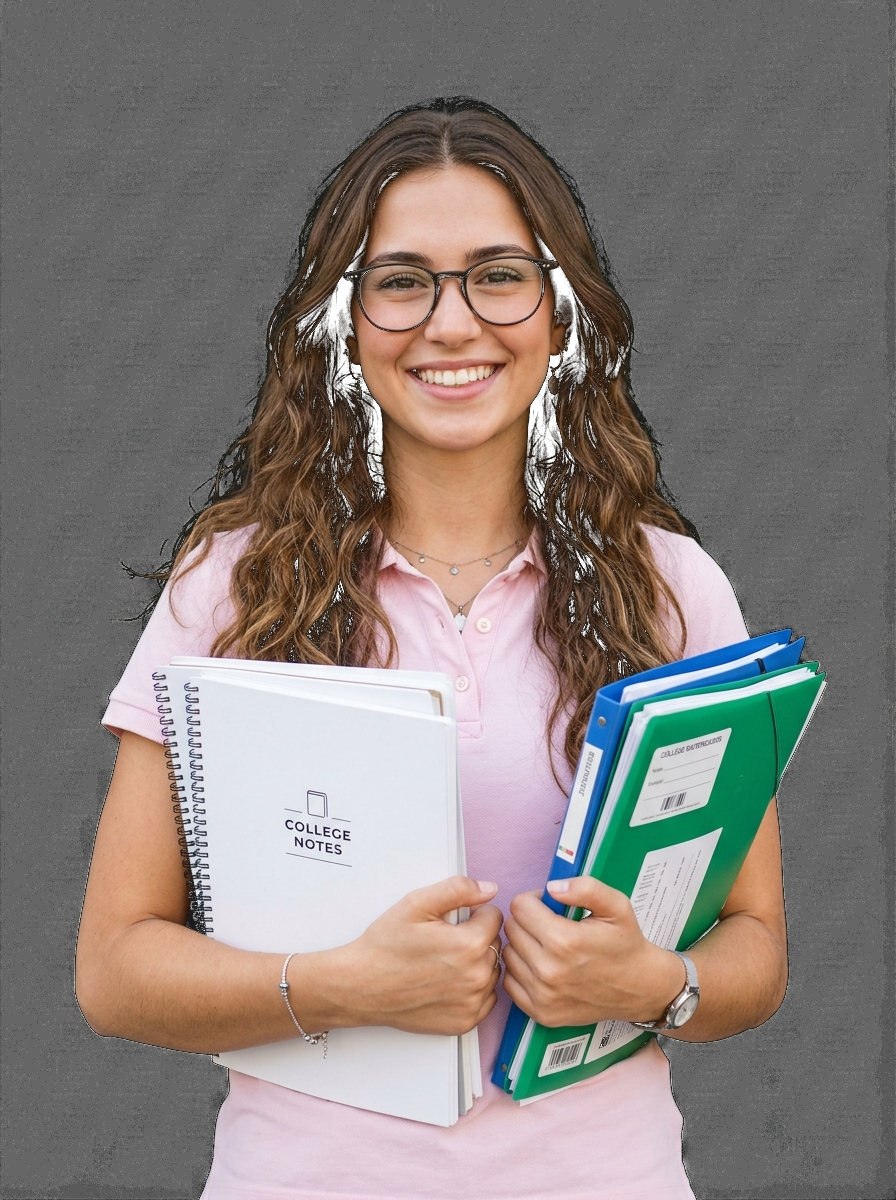
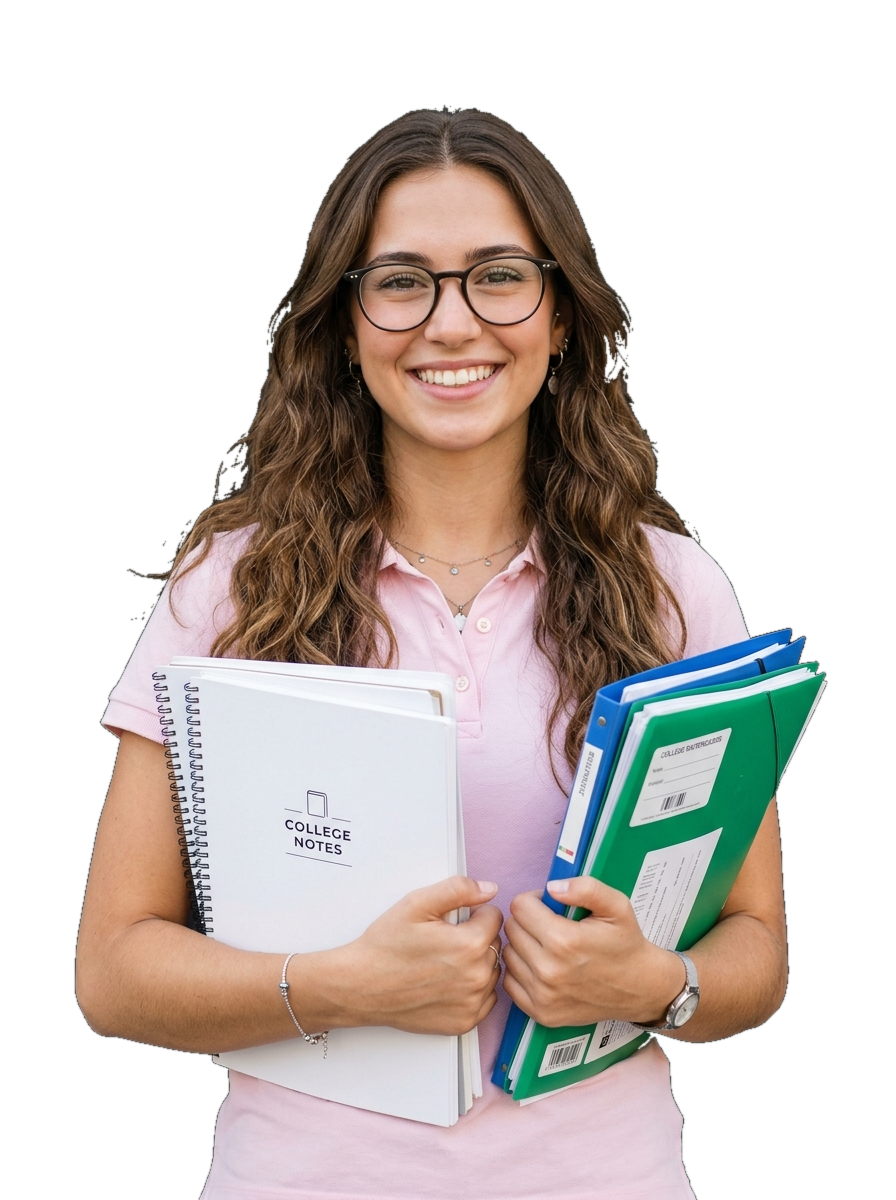
Make hero section full viewport height with seamless dark top navbar and clean transparent student cutout

diff --git a/bioedge-frontend/src/index.css b/bioedge-frontend/src/index.css
@@ -1635,7 +1635,11 @@ input, select, textarea {
   color: #FFFFFF;
   position: relative;
   overflow: hidden;
-  padding: 3.5rem 0 3rem;
+  min-height: calc(100vh - 72px);
+  display: flex;
+  flex-direction: column;
+  justify-content: flex-end;
+  padding: 2.5rem 0 0 0;
   border-bottom: 1px solid rgba(255, 255, 255, 0.08);
 }
 
@@ -1711,10 +1715,15 @@ input, select, textarea {
 
 .ref-hero-container {
   max-width: 1280px;
+  width: 100%;
   margin: 0 auto;
   padding: 0 1.5rem;
   position: relative;
   z-index: 10;
+  display: flex;
+  flex-direction: column;
+  justify-content: flex-end;
+  flex: 1;
 }
 
 .ref-hero-grid {
@@ -1722,6 +1731,7 @@ input, select, textarea {
   grid-template-columns: 280px 1.25fr 290px;
   gap: 2rem;
   align-items: flex-end;
+  width: 100%;
 }
 
 /* Left Column */
@@ -1729,7 +1739,7 @@ input, select, textarea {
   display: flex;
   flex-direction: column;
   gap: 2rem;
-  padding-bottom: 1.5rem;
+  padding-bottom: 0;
 }
 
 .ref-hero-mini-badge {
@@ -1822,6 +1832,7 @@ input, select, textarea {
   display: flex;
   flex-direction: column;
   gap: 0.85rem;
+  margin-bottom: 0;
 }
 
 .teacher-card-top-header {
@@ -1913,9 +1924,9 @@ input, select, textarea {
   max-width: 440px;
   margin: 0 auto;
   z-index: 5;
-  background: transparent;
-  border: none;
-  box-shadow: none;
+  background: transparent !important;
+  border: none !important;
+  box-shadow: none !important;
 }
 
 .center-student-img {
@@ -1924,11 +1935,11 @@ input, select, textarea {
   max-height: 520px;
   object-fit: contain;
   display: block;
-  background: transparent;
-  border: none;
-  border-radius: 0;
-  box-shadow: none;
-  filter: drop-shadow(0 15px 35px rgba(0, 0, 0, 0.5));
+  background: transparent !important;
+  border: none !important;
+  border-radius: 0 !important;
+  box-shadow: none !important;
+  filter: drop-shadow(0 15px 35px rgba(0, 0, 0, 0.45));
 }
 
 .student-ambient-glow {
@@ -1944,17 +1955,19 @@ input, select, textarea {
 .ref-bottom-white-card {
   background: #FFFFFF;
   color: #1F2922;
-  border-radius: 20px;
+  border-radius: 20px 20px 0 0;
   padding: 1.5rem 1.75rem;
   display: grid;
   grid-template-columns: 1.15fr 1fr;
   gap: 1.5rem;
   align-items: center;
   width: 100%;
-  margin-top: -45px;
+  margin-top: -35px;
+  margin-bottom: 0;
   z-index: 25;
-  box-shadow: 0 20px 48px -8px rgba(0, 0, 0, 0.4);
-  border: 1px solid rgba(255, 255, 255, 0.9);
+  box-shadow: 0 -10px 32px rgba(0, 0, 0, 0.3);
+  border: 1px solid rgba(255, 255, 255, 0.95);
+  border-bottom: none;
 }
 
 .card-cta-headline {

diff --git a/bioedge-frontend/src/components/common/Navbar.tsx b/bioedge-frontend/src/components/common/Navbar.tsx
@@ -27,9 +27,10 @@ export const Navbar: React.FC = () => {
   ];
 
   const isActive = (path: string) => location.pathname === path;
+  const isHome = location.pathname === '/';
 
   return (
-    <header className="navbar-wrapper">
+    <header className={`navbar-wrapper ${isHome ? 'is-home-nav' : ''}`}>
       <div className="container">
         <div className="navbar-container">
           {/* Logo */}
@@ -269,6 +270,38 @@ export const Navbar: React.FC = () => {
           display: none;
           color: var(--text-dark);
         }
+
+        /* Dark Home Hero Navbar Theme */
+        .navbar-wrapper.is-home-nav {
+          background: rgba(8, 19, 12, 0.96);
+          backdrop-filter: blur(14px);
+          border-bottom: 1px solid rgba(255, 255, 255, 0.08);
+        }
+        .navbar-wrapper.is-home-nav .brand-title {
+          color: #FFFFFF;
+        }
+        .navbar-wrapper.is-home-nav .brand-subtitle {
+          color: #34D399;
+        }
+        .navbar-wrapper.is-home-nav .nav-item {
+          color: #E2E8F0;
+        }
+        .navbar-wrapper.is-home-nav .nav-item:hover,
+        .navbar-wrapper.is-home-nav .nav-item.active {
+          color: #34D399;
+        }
+        .navbar-wrapper.is-home-nav .seats-indicator {
+          background: rgba(16, 185, 129, 0.15);
+          border: 1px solid rgba(52, 211, 153, 0.3);
+          color: #34D399;
+        }
+        .navbar-wrapper.is-home-nav .btn-ghost {
+          color: #FFFFFF;
+        }
+        .navbar-wrapper.is-home-nav .mobile-toggle-btn {
+          color: #FFFFFF;
+        }
+
         .mobile-menu-drawer {
           background: #ffffff;
           border-bottom: 1px solid var(--border-color);
